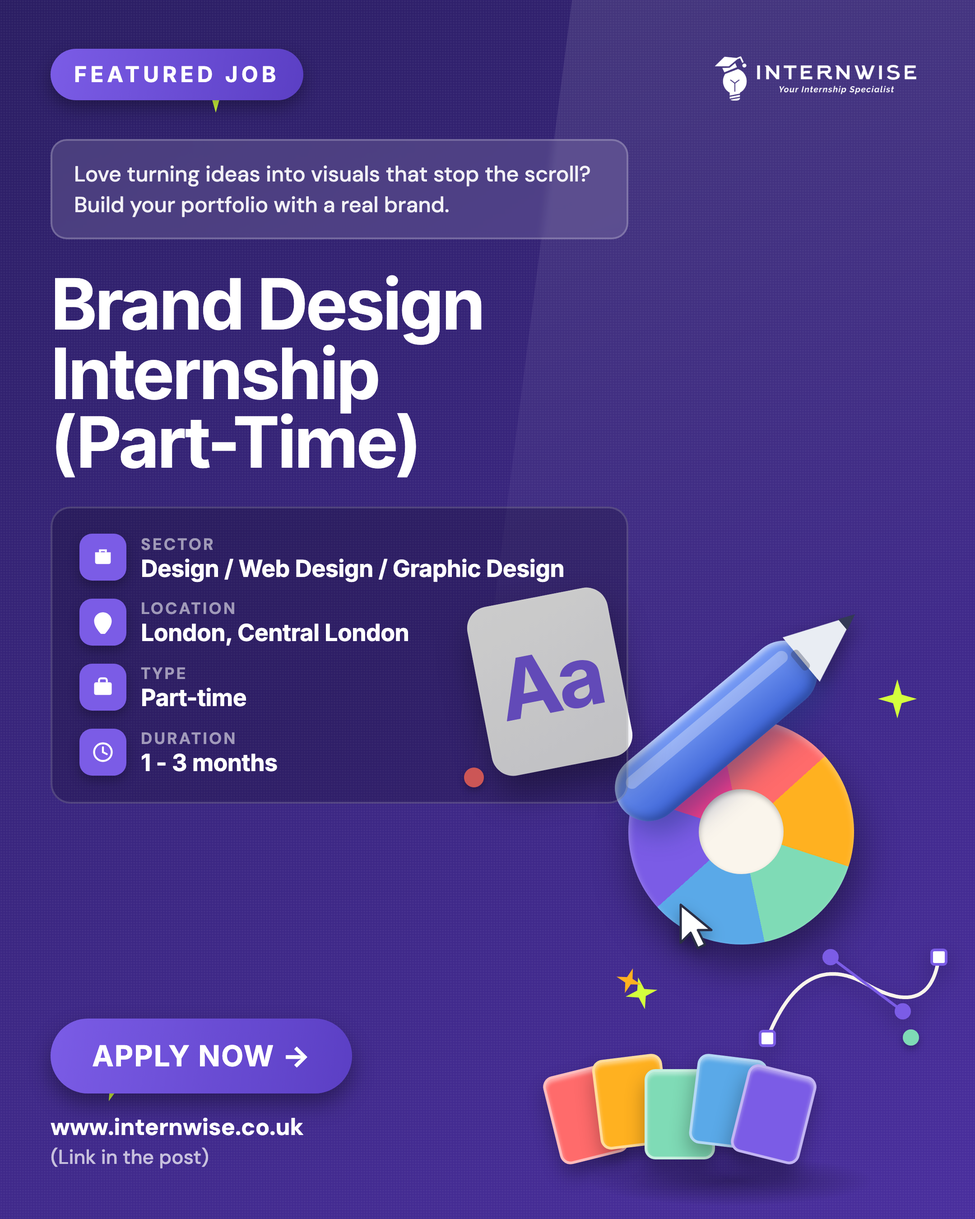
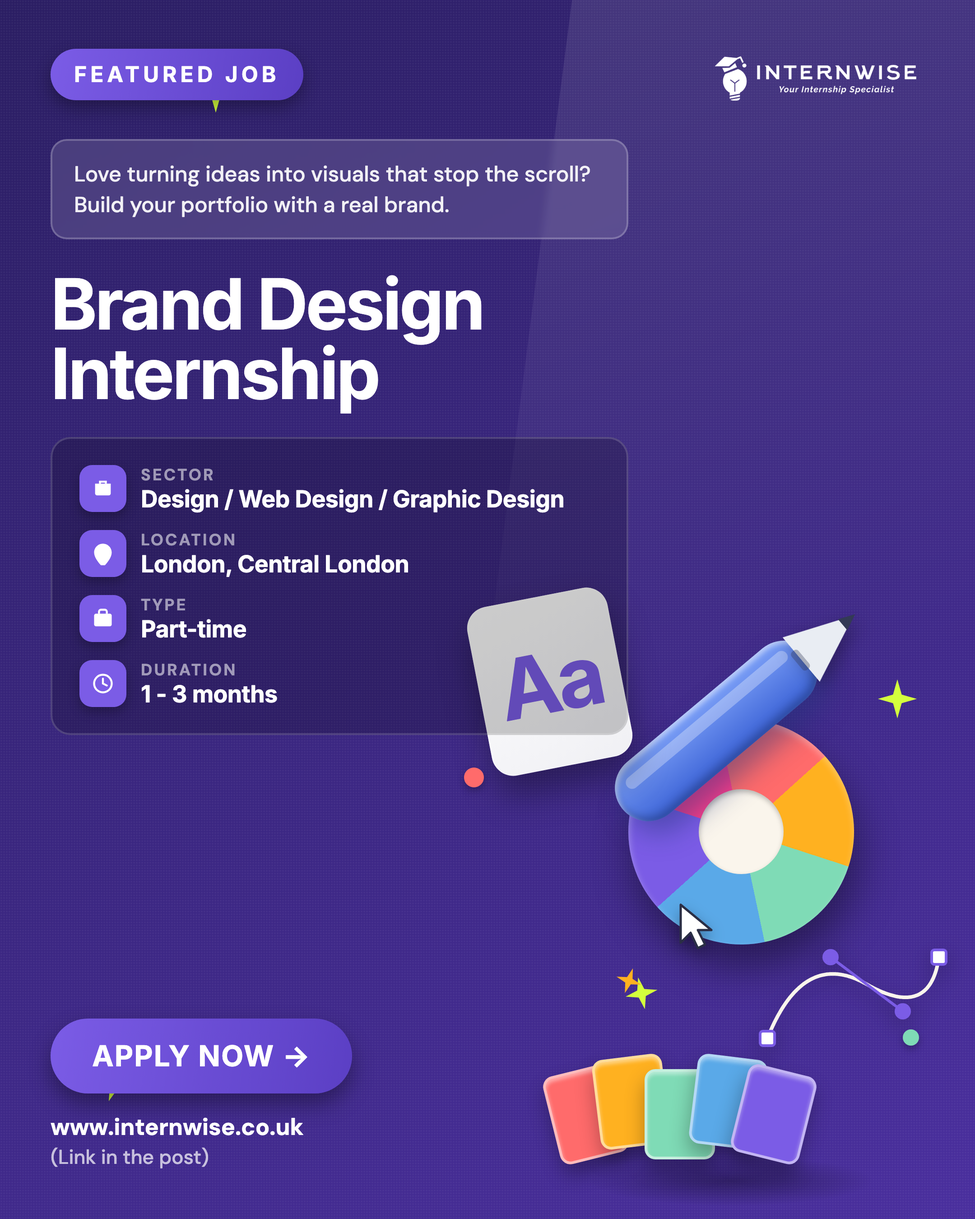
Featured jobs: strip Part-Time/Full-Time from titles, reliable badge, clearer sort
- Title cleaner now also drops a trailing employment type, e.g.
  "Brand Design Internship (Part-Time)" -> "Brand Design Internship"
  (the Type field still shows Part-time). Graphics regenerated.
- Notification badge no longer suppressed on first visit, so it reliably shows
  the count of unseen featured graphics (and "New" ribbons) whenever you log in.
- Newest-first sort now keys on numeric job id (higher = newer) so the ordering
  is unmistakable even when several jobs were generated in the same batch.

Changed region(s): [[0.031, 0.3422, 0.6514, 0.6844]]

diff --git a/app.js b/app.js
@@ -287,16 +287,10 @@
   }
 
   function computeFeaturedNew() {
+    // Anything the user hasn't seen yet is "new" (including on a first visit, so the
+    // badge is always visible when there are featured graphics to review).
     const autoIds = autoFeaturedIds();
-    const firstEverVisit = (localStorage.getItem(FEATURED_SEEN_KEY) === null);
-    if (firstEverVisit) {
-      // Don't flag everything as "new" on the very first visit.
-      featuredSeen = new Set(autoIds);
-      saveFeaturedSeen();
-      featuredNewIds = new Set();
-    } else {
-      featuredNewIds = new Set(autoIds.filter(function (id) { return !featuredSeen.has(id); }));
-    }
+    featuredNewIds = new Set(autoIds.filter(function (id) { return !featuredSeen.has(id); }));
   }
 
   function updateFeaturedBadge() {
@@ -329,10 +323,11 @@
     currentWeek = featuredWeek;
 
     const posts = (featuredWeek.posts || []).slice().sort(function (a, b) {
-      // Newest first: by addedAt, then by numeric job id as a fallback.
-      const at = a.addedAt || '', bt = b.addedAt || '';
-      if (at !== bt) return at < bt ? 1 : -1;
-      return (parseInt(b.sourceId || 0, 10)) - (parseInt(a.sourceId || 0, 10));
+      // Newest first: by numeric job id (higher id = more recently posted),
+      // then by addedAt as a tiebreak.
+      const ai = parseInt(a.sourceId || 0, 10), bi = parseInt(b.sourceId || 0, 10);
+      if (ai !== bi) return bi - ai;
+      return (b.addedAt || '') < (a.addedAt || '') ? -1 : 1;
     });
 
     const count = posts.length;

diff --git a/automation/featured_job.py b/automation/featured_job.py
@@ -422,9 +422,12 @@ def _sanitize(s):
     return re.sub(r"\s+", " ", s).strip()
 
 def strip_year(s):
-    """Drop a trailing year in parentheses, e.g. 'Business Assistant (2026)'."""
+    """Drop a trailing parenthetical that is just noise for a headline: a year
+    ('... (2026)') or an employment type ('... (Part-Time)', '(Full Time)')."""
     if not s: return ""
-    return re.sub(r"\s*\(\s*(?:19|20)\d{2}\s*\)\s*$", "", s).strip()
+    s = re.sub(r"\s*\(\s*(?:(?:19|20)\d{2}|(?:part|full)[\s-]?time)\s*\)\s*$",
+               "", s, flags=re.I)
+    return s.strip()
 
 def _wrap_title(title):
     """Balance the title into up to 3 lines; return (html_with_br, font_size)."""
